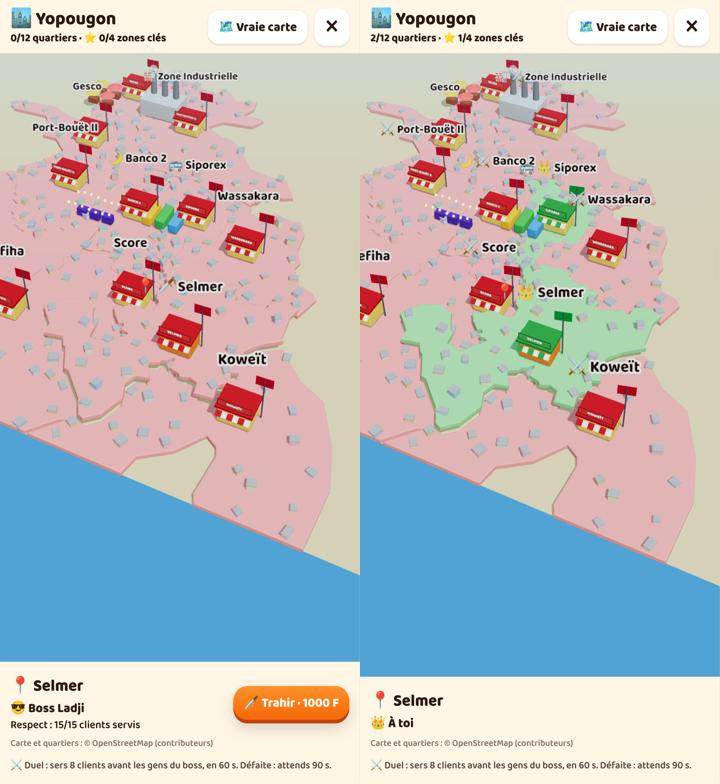
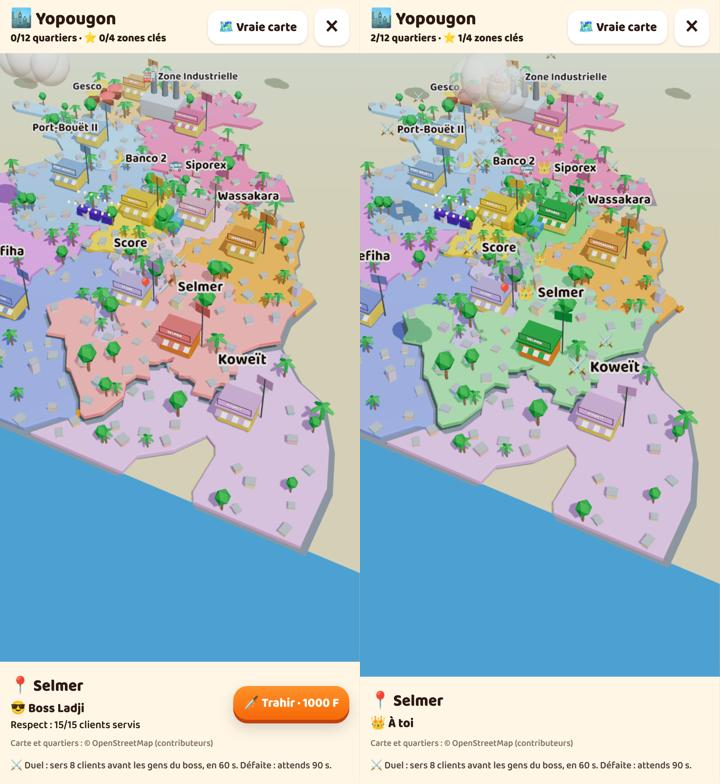
Maquette 3D améliorée : couleur par boss, rues et circulation, arbres et palmiers, marqueurs flottants, nuages, arrivée de la caméra
Claude-Session: https://claude.ai/code/session_01KFciWeXU4vd2AfokCb8FgL

diff --git a/web/src/arcade/Commune3D.tsx b/web/src/arcade/Commune3D.tsx
@@ -40,10 +40,10 @@ function rng(seed: number) {
 
 /** A name label drawn on a canvas, shown as a sprite that always faces the camera. */
 const labels = new Map<string, THREE.CanvasTexture>()
-function labelTexture(text: string) {
+function labelTexture(text: string, w = 640) {
   if (labels.has(text)) return labels.get(text)!
   const c = document.createElement('canvas')
-  c.width = 640
+  c.width = w
   c.height = 128
   const g = c.getContext('2d')!
   g.font = '800 56px "Baloo 2", sans-serif'
@@ -52,14 +52,19 @@ function labelTexture(text: string) {
   g.lineJoin = 'round'
   g.lineWidth = 14
   g.strokeStyle = '#ffffff'
-  g.strokeText(text, 320, 68)
+  g.strokeText(text, w / 2, 68)
   g.fillStyle = '#2b1a12'
-  g.fillText(text, 320, 68)
+  g.fillText(text, w / 2, 68)
   const t = new THREE.CanvasTexture(c)
   t.colorSpace = THREE.SRGBColorSpace
   labels.set(text, t)
   return t
 }
+
+// each boss has a colour (like territories on a strategy map); yours is always green
+const BOSS = ['#ff8787', '#ffa94d', '#fcc2d7', '#d0bfff', '#ffd43b', '#91a7ff', '#e599f7', '#99c1f2', '#ffc078', '#a5d8ff', '#f783ac', '#eebefa'] // no green: green means « yours »
+const MINE = '#69db7c'
+const flagOf = (i: number, mine: boolean) => (mine ? '#2f9e44' : new THREE.Color(BOSS[i % BOSS.length]).multiplyScalar(0.7).getStyle())
 
 const WALLS = ['#ffd8a8', '#a5d8ff', '#ffc9c9', '#d3f9d8', '#fff3bf', '#e5dbff', '#ffe8cc', '#c5f6fa']
 const ROOF = '#c3c9cf' // tin roofs
@@ -74,7 +79,7 @@ function inside(p: THREE.Vector2, poly: THREE.Vector2[]) {
   return c
 }
 
-type DistrictGeo = { i: number; poly: THREE.Vector2[]; label: THREE.Vector2; shape: THREE.Shape; houses: { x: number; z: number; w: number; d: number; h: number; c: string; r: number }[] }
+type DistrictGeo = { i: number; ring: THREE.Vector2[]; poly: THREE.Vector2[]; label: THREE.Vector2; shape: THREE.Shape; road: THREE.Shape; houses: { x: number; z: number; w: number; d: number; h: number; c: string; r: number }[]; trees: { x: number; z: number; s: number; palm: boolean }[] }
 
 function buildDistricts(geo: Geo): DistrictGeo[] {
   const P = projector(geo)
@@ -82,20 +87,29 @@ function buildDistricts(geo: Geo): DistrictGeo[] {
     const ring = f.geometry.coordinates[0].map(([lng, lat]) => P(lng, lat))
     // shrink a little towards the centre so the streets between districts show
     const c = ring.reduce((a, p) => a.add(p), new THREE.Vector2()).divideScalar(ring.length)
-    const poly = ring.map((p) => p.clone().sub(c).multiplyScalar(0.97).add(c))
+    const poly = ring.map((p) => p.clone().sub(c).multiplyScalar(0.95).add(c))
     const shape = new THREE.Shape(poly.map((p) => new THREE.Vector2(p.x, -p.y)))
+    // the full outline, flat and grey: what shows between two districts is the street
+    const road = new THREE.Shape(ring.map((p) => new THREE.Vector2(p.x, -p.y)))
     const label = P(f.properties.label[0], f.properties.label[1])
     // houses scattered inside the district
     const r = rng(1000 + f.properties.i * 77)
     const min = poly.reduce((a, p) => a.min(p), poly[0].clone())
     const max = poly.reduce((a, p) => a.max(p), poly[0].clone())
+    // a few taller buildings in the busy central districts
     const houses: DistrictGeo['houses'] = []
     for (let k = 0; k < 900 && houses.length < 22; k++) {
       const p = new THREE.Vector2(min.x + r() * (max.x - min.x), min.y + r() * (max.y - min.y))
       if (!inside(p, poly) || p.distanceTo(label) < 12 || houses.some((o) => Math.hypot(o.x - p.x, o.z - p.y) < 5)) continue
-      houses.push({ x: p.x, z: p.y, w: 1.6 + r() * 1.4, d: 1.6 + r() * 1.2, h: 0.9 + r() * (r() < 0.15 ? 3 : 1.2), c: WALLS[Math.floor(r() * WALLS.length)], r: r() * Math.PI })
+      houses.push({ x: p.x, z: p.y, w: 1.6 + r() * 1.4, d: 1.6 + r() * 1.2, h: 0.9 + r() * (r() < (f.properties.i < 6 ? 0.3 : 0.1) ? 4 : 1.2), c: WALLS[Math.floor(r() * WALLS.length)], r: r() * Math.PI })
     }
-    return { i: f.properties.i, poly, label, shape, houses }
+    const trees: DistrictGeo['trees'] = []
+    for (let k = 0; k < 600 && trees.length < 9; k++) {
+      const p = new THREE.Vector2(min.x + r() * (max.x - min.x), min.y + r() * (max.y - min.y))
+      if (!inside(p, poly) || p.distanceTo(label) < 10 || houses.some((o) => Math.hypot(o.x - p.x, o.z - p.y) < 3.5)) continue
+      trees.push({ x: p.x, z: p.y, s: 0.9 + r() * 0.8, palm: r() < 0.6 })
+    }
+    return { i: f.properties.i, ring, poly, label, shape, road, houses, trees }
   })
 }
 
@@ -136,12 +150,11 @@ function Houses({ list }: { list: DistrictGeo['houses'] }) {
 }
 
 /** The boss's maquis (or yours) with its sign and flag. */
-function Maquis({ name, mine, home }: { name: string; mine: boolean; home: boolean }) {
+function Maquis({ name, mine, home, color }: { name: string; mine: boolean; home: boolean; color: string }) {
   const flag = useRef<THREE.Mesh>(null)
   useFrame(({ clock }) => {
     if (flag.current) flag.current.rotation.y = Math.sin(clock.elapsedTime * 3) * 0.25
   })
-  const color = mine ? '#2f9e44' : '#c92a2a'
   return (
     <group>
       <RoundedBox args={[6, 3.4, 4.5]} radius={0.3} position={[0, 1.2 + 1.7, 0]} castShadow>
@@ -259,7 +272,16 @@ function DistrictBlock({ d, place, owner, owners, selected, onPick }: { d: Distr
     g.current.position.y += ((selected ? 3 : 0) - g.current.position.y) * Math.min(1, dt * 6)
   })
   const open = d.i === 0 ? !mine : canAttack(place, d.i, owners)
+  const roadGeom = useMemo(() => new THREE.ShapeGeometry(d.road), [d.road])
+  const marker = useRef<THREE.Sprite>(null)
+  useFrame(({ clock }) => {
+    if (marker.current) marker.current.position.y = 34 + Math.sin(clock.elapsedTime * 3 + d.i) * 1.5
+  })
   return (
+    <>
+    <mesh geometry={roadGeom} rotation={[-Math.PI / 2, 0, 0]} position={[0, 0.03, 0]} receiveShadow>
+      <meshStandardMaterial color="#868e96" roughness={0.9} />
+    </mesh>
     <group ref={g}>
       <mesh
         geometry={geom}
@@ -271,20 +293,141 @@ function DistrictBlock({ d, place, owner, owners, selected, onPick }: { d: Distr
           onPick()
         }}
       >
-        <meshStandardMaterial color={mine ? '#8ce99a' : '#ffa8a8'} roughness={0.85} />
+        <meshStandardMaterial color={mine ? MINE : BOSS[d.i % BOSS.length]} roughness={0.85} />
       </mesh>
+      {selected && (
+        <mesh geometry={geom} rotation={[-Math.PI / 2, 0, 0]} position={[0, 0.05, 0]} scale={[1, 1, 1.15]}>
+          <meshBasicMaterial color="#ffffff" transparent opacity={0.35} />
+        </mesh>
+      )}
       <Houses list={d.houses} />
+      <Trees list={d.trees} />
       <group position={[d.label.x, 0, d.label.y]}>
         <group scale={1.7}>
-        <Maquis name={info.name} mine={mine} home={d.i === 0} />
+        <Maquis name={info.name} mine={mine} home={d.i === 0} color={flagOf(d.i, mine)} />
         {info.bonus && <Landmark kind={info.bonus.icon} />}
         </group>
+        {(open || mine) && (
+          <sprite ref={marker} position={[0, 34, 0]} scale={[7, 7, 1]}>
+            <spriteMaterial map={labelTexture(mine ? '👑' : '⚔', 128)} depthTest={false} transparent />
+          </sprite>
+        )}
         <sprite position={[0, 24, 0]} scale={[46, 9.2, 1]}>
           <spriteMaterial map={labelTexture(`${d.i === 0 ? '📍 ' : ''}${info.bonus ? `${info.bonus.icon} ` : ''}${mine ? '👑 ' : open ? (d.i === 0 ? '🗡 ' : '⚔ ') : ''}${info.name}`)} depthTest={false} transparent />
         </sprite>
       </group>
     </group>
+    </>
   )
+}
+
+/** Palms and round trees between the houses. */
+function Trees({ list }: { list: DistrictGeo['trees'] }) {
+  return (
+    <>
+      {list.map((t, k) => (
+        <group key={k} position={[t.x, 1.2, t.z]} scale={t.s}>
+          <mesh position={[0, 2, 0]} castShadow>
+            <cylinderGeometry args={[0.18, 0.26, 4, 6]} />
+            <meshStandardMaterial color="#a07f5c" />
+          </mesh>
+          {t.palm ? (
+            [0, 1, 2, 3, 4].map((j) => (
+              <mesh key={j} position={[Math.cos(j * 1.256) * 1, 4.1, Math.sin(j * 1.256) * 1]} rotation={[0, -j * 1.256, -0.5]} scale={[1, 0.12, 0.4]} castShadow>
+                <icosahedronGeometry args={[1.3, 0]} />
+                <meshStandardMaterial color={j % 2 ? '#2f9e44' : '#40c057'} flatShading />
+              </mesh>
+            ))
+          ) : (
+            <mesh position={[0, 4.4, 0]} castShadow>
+              <icosahedronGeometry args={[1.7, 0]} />
+              <meshStandardMaterial color="#37b24d" flatShading />
+            </mesh>
+          )}
+        </group>
+      ))}
+    </>
+  )
+}
+
+/** Gbakas and taxis going round the streets (the outlines of the districts). */
+function Traffic({ ds }: { ds: DistrictGeo[] }) {
+  const cars = useMemo(() => {
+    const r = rng(7)
+    return Array.from({ length: 16 }, (_, k) => {
+      const d = ds[k % ds.length]
+      return { ring: d.ring, t: r(), speed: 0.006 + r() * 0.006, color: ['#fcc419', '#f08c00', '#40c057', '#1c7ed6'][k % 4], big: k % 2 === 0 }
+    })
+  }, [ds])
+  const refs = useRef<(THREE.Group | null)[]>([])
+  const a = useMemo(() => new THREE.Vector2(), [])
+  useFrame((_, dt) => {
+    cars.forEach((c, k) => {
+      const g = refs.current[k]
+      if (!g) return
+      c.t = (c.t + dt * c.speed) % 1
+      const n = c.ring.length - 1
+      const f = c.t * n
+      const i = Math.floor(f)
+      const p0 = c.ring[i]
+      const p1 = c.ring[(i + 1) % n]
+      a.lerpVectors(p0, p1, f - i)
+      g.position.set(a.x, 0.6, a.y)
+      g.rotation.y = Math.atan2(p1.x - p0.x, p1.y - p0.y)
+    })
+  })
+  return (
+    <>
+      {cars.map((c, k) => (
+        <group key={k} ref={(el) => void (refs.current[k] = el)}>
+          <RoundedBox args={[1.4, 1.2, c.big ? 3.4 : 2.4]} radius={0.3} castShadow>
+            <meshStandardMaterial color={c.color} />
+          </RoundedBox>
+        </group>
+      ))}
+    </>
+  )
+}
+
+/** A few clouds drifting over the city (their shadows move on the ground). */
+function Clouds({ c }: { c: THREE.Vector2 }) {
+  const g = useRef<THREE.Group>(null)
+  useFrame((_, dt) => {
+    if (!g.current) return
+    g.current.position.x += dt * 1.6
+    if (g.current.position.x > 120) g.current.position.x = -120
+  })
+  const puffs = useMemo(() => {
+    const r = rng(99)
+    return Array.from({ length: 5 }, () => ({ x: c.x + (r() - 0.5) * 260, z: c.y + (r() - 0.5) * 220, s: 2.5 + r() * 2.5 }))
+  }, [c])
+  return (
+    <group ref={g}>
+      {puffs.map((p, k) => (
+        <group key={k} position={[p.x, 115, p.z]}>
+          {[-1, 0, 1].map((j) => (
+            <mesh key={j} position={[j * p.s * 0.9, Math.abs(j) * -1, 0]} castShadow>
+              <sphereGeometry args={[p.s * (j === 0 ? 1.2 : 0.9), 12, 10]} />
+              <meshStandardMaterial color="#ffffff" transparent opacity={0.55} depthWrite={false} />
+            </mesh>
+          ))}
+        </group>
+      ))}
+    </group>
+  )
+}
+
+/** The camera flies down from the sky onto your district when the screen opens. */
+function FlyIn({ to }: { to: THREE.Vector3 }) {
+  const t = useRef(0)
+  useFrame(({ camera }, dt) => {
+    if (t.current >= 1) return
+    t.current = Math.min(1, t.current + dt / 2.2)
+    const k = 1 - Math.pow(1 - t.current, 3)
+    camera.position.set(to.x + 70 * k, 420 - 245 * k, to.z + 40 + 110 * k)
+    camera.lookAt(to.x, 0, to.z)
+  })
+  return null
 }
 
 function Forest({ center }: { center: THREE.Vector2 }) {
@@ -326,7 +469,7 @@ export function Commune3D({ place, owners, selected, onPick }: { place: PlaceId;
     <Canvas shadows dpr={[1, 2]} camera={{ fov: 40, position: [home.x + 70, 175, home.y + 150], near: 1, far: 2000 }}>
       <color attach="background" args={['#bfe6ff']} />
       <fog attach="fog" args={['#bfe6ff', 250, 600]} />
-      <hemisphereLight args={['#e3f4ff', '#d9b38c', 1.4]} />
+      <hemisphereLight args={['#e3f4ff', '#d9b38c', 1.3]} />
       <directionalLight castShadow position={[c.x + 80, 160, c.y + 60]} intensity={2} shadow-mapSize={[2048, 2048]} shadow-camera-left={-150} shadow-camera-right={150} shadow-camera-top={150} shadow-camera-bottom={-150} shadow-camera-far={500} />
       {/* ground, lagoon to the south, forest to the east */}
       <mesh rotation={[-Math.PI / 2, 0, 0]} position={[c.x, -0.05, c.y]} receiveShadow>
@@ -341,6 +484,9 @@ export function Commune3D({ place, owners, selected, onPick }: { place: PlaceId;
       {ds.map((d) => (
         <DistrictBlock key={d.i} d={d} place={place} owner={owners[d.i]} owners={owners} selected={selected === d.i} onPick={() => onPick(d.i)} />
       ))}
+      <Traffic ds={ds} />
+      <Clouds c={c} />
+      <FlyIn to={new THREE.Vector3(home.x, 0, home.y)} />
       <MapControls target={[home.x, 0, home.y]} maxPolarAngle={1.2} minDistance={40} maxDistance={420} enableDamping />
     </Canvas>
   )
